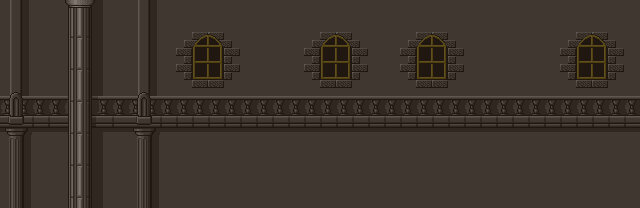
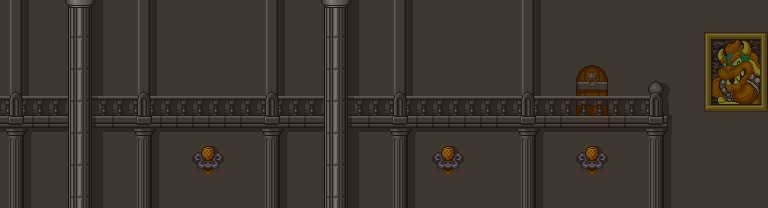
tela2fundo

diff --git a/fase2/fase2.css b/fase2/fase2.css
@@ -16,7 +16,6 @@ body{
     width: 100%;
     height: 500px;
     border-top: 800px;
- 
     position: relative;
     overflow: hidden;
     background: linear-gradient(#000000, #585858);
@@ -24,28 +23,21 @@ body{
 
 /*=============== fundo do Castelo ===============*/
 
-.fundoCastelo {
-    position: absolute;
-    width: 100vw;
-    height: 100vh;
-
-} 
-
 .fundoCastelo-1 {
     position: absolute;  
     width: 100%;
-    height: 500px;
-    z-index: 8;
+    height: 94%;
+    z-index: 9;
+
 } 
 
-
 .fundoCastelo-animation-1{
-    animation: fundoCastelo-animation-1 10s infinite linear;
+    animation: fundoCastelo-animation-1 5s linear;
 }
 
 @keyframes fundoCastelo-animation-1 {
     from{
-        right: -2000px;
+        right: 0px;
     }
     to{
         right: 100%;
@@ -54,51 +46,48 @@ body{
 }
 
 .fundoCastelo-2 {
-    position: absolute; 
+    position: absolute;  
     width: 100%;
-    height: 500px;
-    z-index: 7;
+    height: 94%;
+    z-index: 9;
+    right: -100%;
+
 } 
 
-
 .fundoCastelo-animation-2{
-    animation: fundoCastelo-animation-2 6s infinite linear;
+    animation: fundoCastelo-animation-2 10s infinite linear;
 }
 
 @keyframes fundoCastelo-animation-2 {
     from{
-        right: -2000px;
+        right: -100%;
     }
     to{
         right: 100%;
     }
     
 }
-
 
 .fundoCastelo-3 {
     position: absolute;  
     width: 100%;
-    height: 500px;
-    z-index: 6;
+    height: 94%;
+    z-index: 9;
+    right: -200%;
 } 
 
-
 .fundoCastelo-animation-3{
-    animation: fundoCastelo-animation-3 6s infinite linear;
+    animation: fundoCastelo-animation-3 15s infinite linear;
 }
 
 @keyframes fundoCastelo-animation-3 {
     from{
-        right: -2000px;
+        right: -200%;
     }
     to{
         right: 100%;
     }
-    
 }
-
-
 
 
 /*=============== Mario ===============*/

diff --git a/fase2/fase2.js b/fase2/fase2.js
@@ -70,7 +70,7 @@ const start = () => {
                             
     function fundoCasteloAnimation3(){
         fundoCastelo3.classList.add('fundoCastelo-animation-3');
-            }setInterval(fundoCasteloAnimation3, 3100); 
+            }setInterval(fundoCasteloAnimation3, 0); 
             
     audioStart.play();
 }
@@ -203,7 +203,7 @@ const checkGameOver = setInterval(() => {
 
             /* #### Proxima fase #### */
 
-        if (contador == 2 && marioPosition == 0){
+        if (contador == 10 && marioPosition == 0){
 
             function proximafase(){
                 marioAndando.src = mario.src;

diff --git a/fase2/fase2.html b/fase2/fase2.html
@@ -22,9 +22,12 @@
             <img src="" class="castelo">
 
 
+
             <div class="fundoCastelo">
                 
                 <img src="./images/fundoCastelo1.png" class="fundoCastelo-1">
+                <img src="./images/fundoCastelo2.png" class="fundoCastelo-2">
+                <img src="./images/fundoCastelo3.png" class="fundoCastelo-3">
 
             </div>
         
